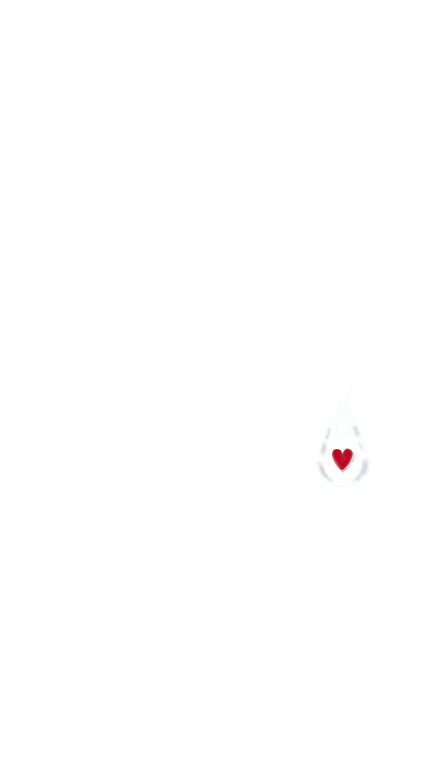
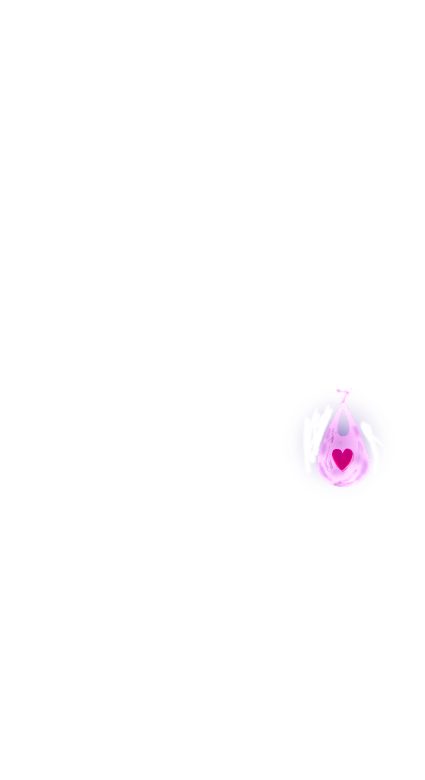
Cambio en bolsa, añade google calendar, cambio en pading general

Changed region(s): [[0.7341, 0.4923, 0.8871, 0.6462]]

diff --git a/src/App.jsx b/src/App.jsx
@@ -41,24 +41,23 @@ function App() {
   }
 
   return (
-    <div className="fondo overflow-hidden mx-auto w-full max-w-[425px] md:max-w-[425px] lg:max-w-[425px] lg:mx-auto h-auto">
-      <div className="fixed inset-0 pointer-events-none">
-  {/* <img className="w-3/3 max-w-[425px] translate-x-35 translate-y-[-80px] scale-x-[-1] fixed" src="/babyshower/assets/marcoizqt.png" alt="Marco superior izquierdo" /> */}
-  <img className="w-20 translate-x-1 translate-y-158 z-1 fixed" src="/babyshower/assets/cuna.png" alt="Marco inferior izquierdo" />
-  <img className="w-20 translate-x-85 translate-y-165 fixed" src="/babyshower/assets/elev.png" alt="Marco inferior derecha" />
-  <img className="w-20 fixed" src="/babyshower/assets/globo.png" alt="Marco inferior izquierdo" style={{transform: `translate(${307}px, ${660 - offsetY * 0.275}px)`}} />
-  <img className="w-20 fixed" src="/babyshower/assets/ciguena.png" alt="Marco inferior izquierdo" style = {{transform: `translate(${-10 + offsetY * 0.16}px,${-40}px)`}} />
-  <img className="w-25 fixed" src="/babyshower/assets/bolsac.png" alt="bolsa con bebé" style={{transform: `translate(${-45}px, ${-45 - offsetY * -0.28}px)`}} />
+    <div className="fondo overflow-hidden ">
+      <div className=" inset-0 pointer-events-none">
+        <img className="w-20 translate-x-1 translate-y-158 z-1 fixed" src="/babyshower/assets/cuna.png" alt="Marco inferior izquierdo" />
+        <img className="w-20 translate-x-85 translate-y-165 fixed" src="/babyshower/assets/elev.png" alt="Marco inferior derecha" />
+        <img className="w-20 fixed" src="/babyshower/assets/globo.png" alt="Marco inferior izquierdo" style={{transform: `translate(${307}px, ${660 - offsetY * 0.275}px)`}} />
+        <img className="w-20 fixed" src="/babyshower/assets/ciguena.png" alt="Marco inferior izquierdo" style = {{transform: `translate(${-10 + offsetY * 0.16}px,${-40}px)`}} />
+        <img className="w-25 fixed" src="/babyshower/assets/bolsac.png" alt="bolsa con bebé" style={{transform: `translate(${-45}px, ${-45 - offsetY * -0.265}px)`}} />
       </div>
       <div className="">
         <Bienvenida nombre={invitado.nombre} apellido={invitado.apellido} />
         
         <Fecha />
-        <img className="mx-auto mt-3 w-15" src="/babyshower/assets/linea.png" alt="viñeta elefantes" />
+        <img className="mx-auto mt-3 w-25" src="/babyshower/assets/linea.png" alt="viñeta elefantes" />
         <Lugar />
-        <img className="mx-auto mt-3 w-15" src="/babyshower/assets/linea.png" alt="viñeta elefantes" />
+        <img className="mx-auto mt-3 w-25" src="/babyshower/assets/linea.png" alt="viñeta elefantes" />
         <Mesa />
-        <img className="mx-auto mt-3 w-15" src="/babyshower/assets/linea.png" alt="viñeta elefantes" />
+        <img className="mx-auto mt-3 w-25" src="/babyshower/assets/linea.png" alt="viñeta elefantes" />
         <Confirmacion />
       </div>
     </div>

diff --git a/src/componentes/saludo.jsx b/src/componentes/saludo.jsx
@@ -1,6 +1,6 @@
 function Bienvenida({ nombre, apellido }) {
     return (
-        <div className="mt-15 ml-5">
+        <div className="mt-15">
             <div className="bg-white border-amber-600 border-2 rounded-2xl w-90 mx-auto p-3 mb-3 mt-5">
                 <h1 className="h-20 font-bold text-6xl text-center text-shadow-lg ">Baby Shower</h1>
                     <img className="w-30 mx-auto" src="/babyshower/assets/eleent.png" alt="" />
@@ -12,7 +12,7 @@ function Bienvenida({ nombre, apellido }) {
                     </p>
                 </div>
             </div>
-            <img className="mx-auto mt-4 mb-5 w-15" src="/babyshower/assets/linea.png" alt="viñeta elefantes" />
+            <img className="mx-auto mt-4 mb-5 w-25" src="/babyshower/assets/linea.png" alt="viñeta elefantes" />
             
             <div className="text-5xl text-center text-rose-200 text-shadow-2xs text-shadow-black font-bold">
                 ¡Hola, <br /> {nombre} {apellido}!

diff --git a/src/componentes/Fecha/Fecha.jsx b/src/componentes/Fecha/Fecha.jsx
@@ -46,6 +46,13 @@ function Fecha() {
             <div className="w-full h-40">
                 <img className=" relative left-1/2 top-1/2 w-32 -translate-x-1/2 -translate-y-1/2 animate-bounce" src="/babyshower/assets/ele1.png" alt="Elefante" />
             </div>
+            <div className="border-red-100 border-2 rounded-2xl p-1 mt-1 ml-5 mr-5 bg-red-100 hover:bg-rose-100 transition-colors duration-300">
+                <a  target="_blank" href="https://calendar.google.com/calendar/event?action=TEMPLATE&amp;tmeid=M2RxNWN2Mjcza21iNThnMzZycTl1MjNqbTggcHNpYy5hcnR1cm9taXJhbmRhQG0&amp;tmsrc=psic.arturomiranda%40gmail.com">
+                    <p>Agrega a tu calendario en Google</p>
+                    <img className="border-0 rounded-2xl mx-auto" src="https://calendar.google.com/calendar/images/ext/gc_button1_es.gif" alt="Google Calendar"/>
+                </a>
+            </div>
+            
         </div>
     );
 }

diff --git a/src/componentes/Mesa/Mesa.jsx b/src/componentes/Mesa/Mesa.jsx
@@ -7,6 +7,7 @@ return (
             <p className="general letragirly mb-5">Y si, además deseas apoyarnos, puedes hacerlo a través de nuestra mesa de regalos en:</p>
             <a className="text-blue-300" href="https://mesaderegalos.liverpool.com.mx/milistaderegalos/51717141" target="_blank" rel="noopener noreferrer">
                 <img className="rounded-2xl w-30 mx-auto" src="/babyshower/assets/liverpool.png" alt="" />
+                <p>(Da click para ir a ella)</p>
             </a>
         </div>
     </div>
